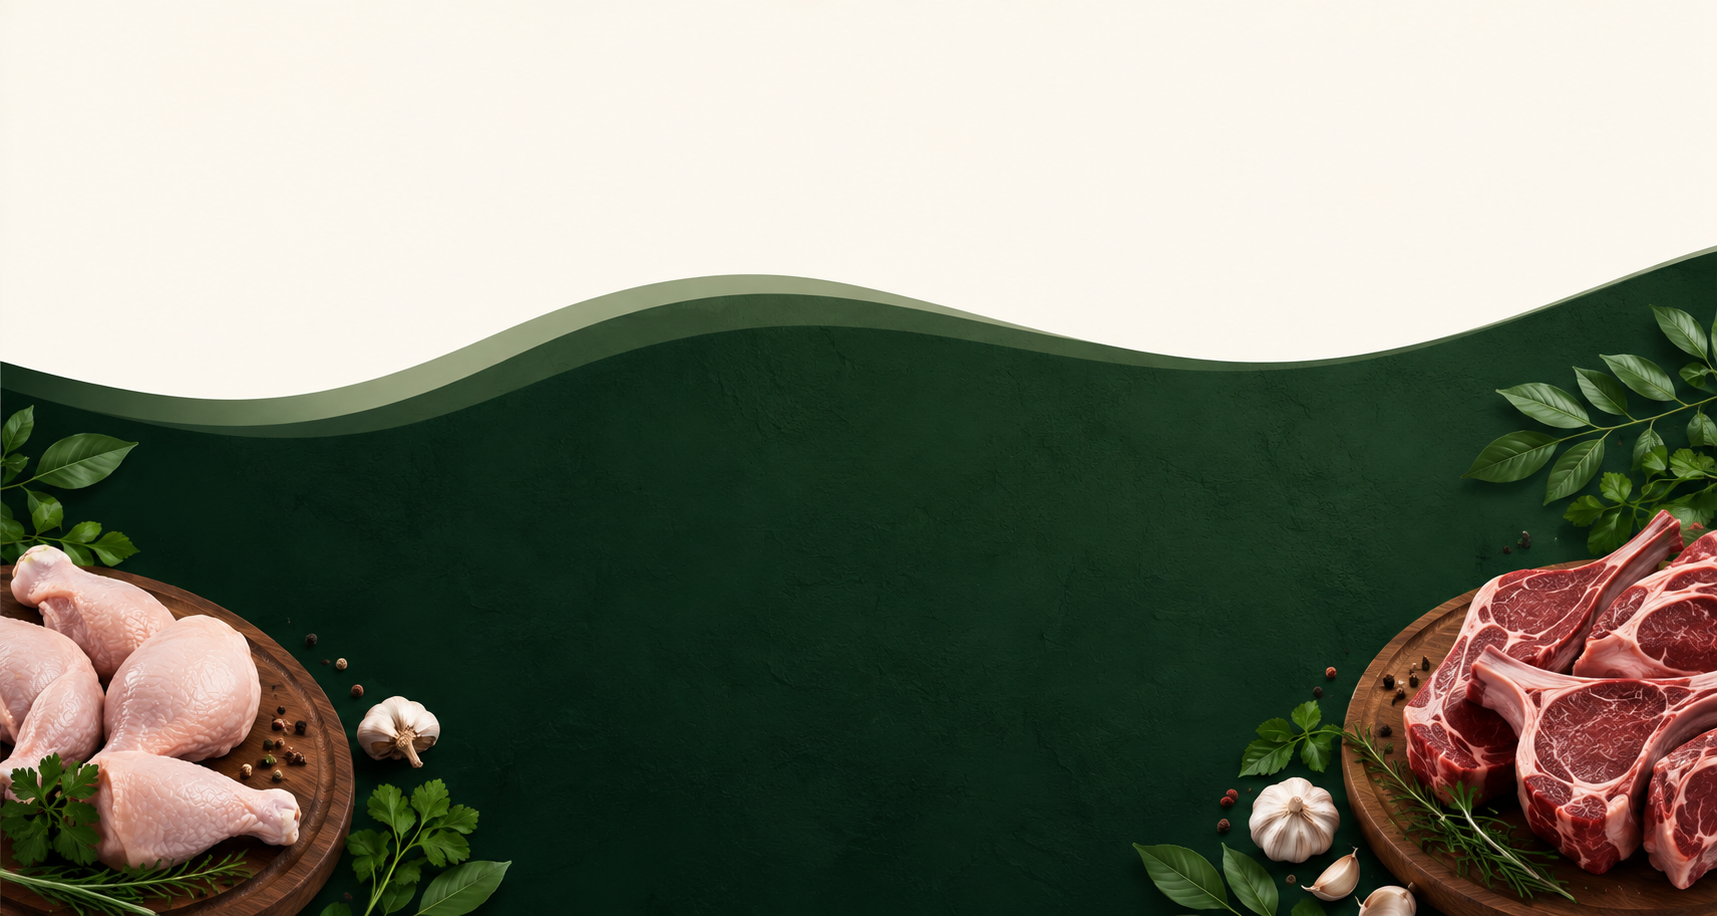
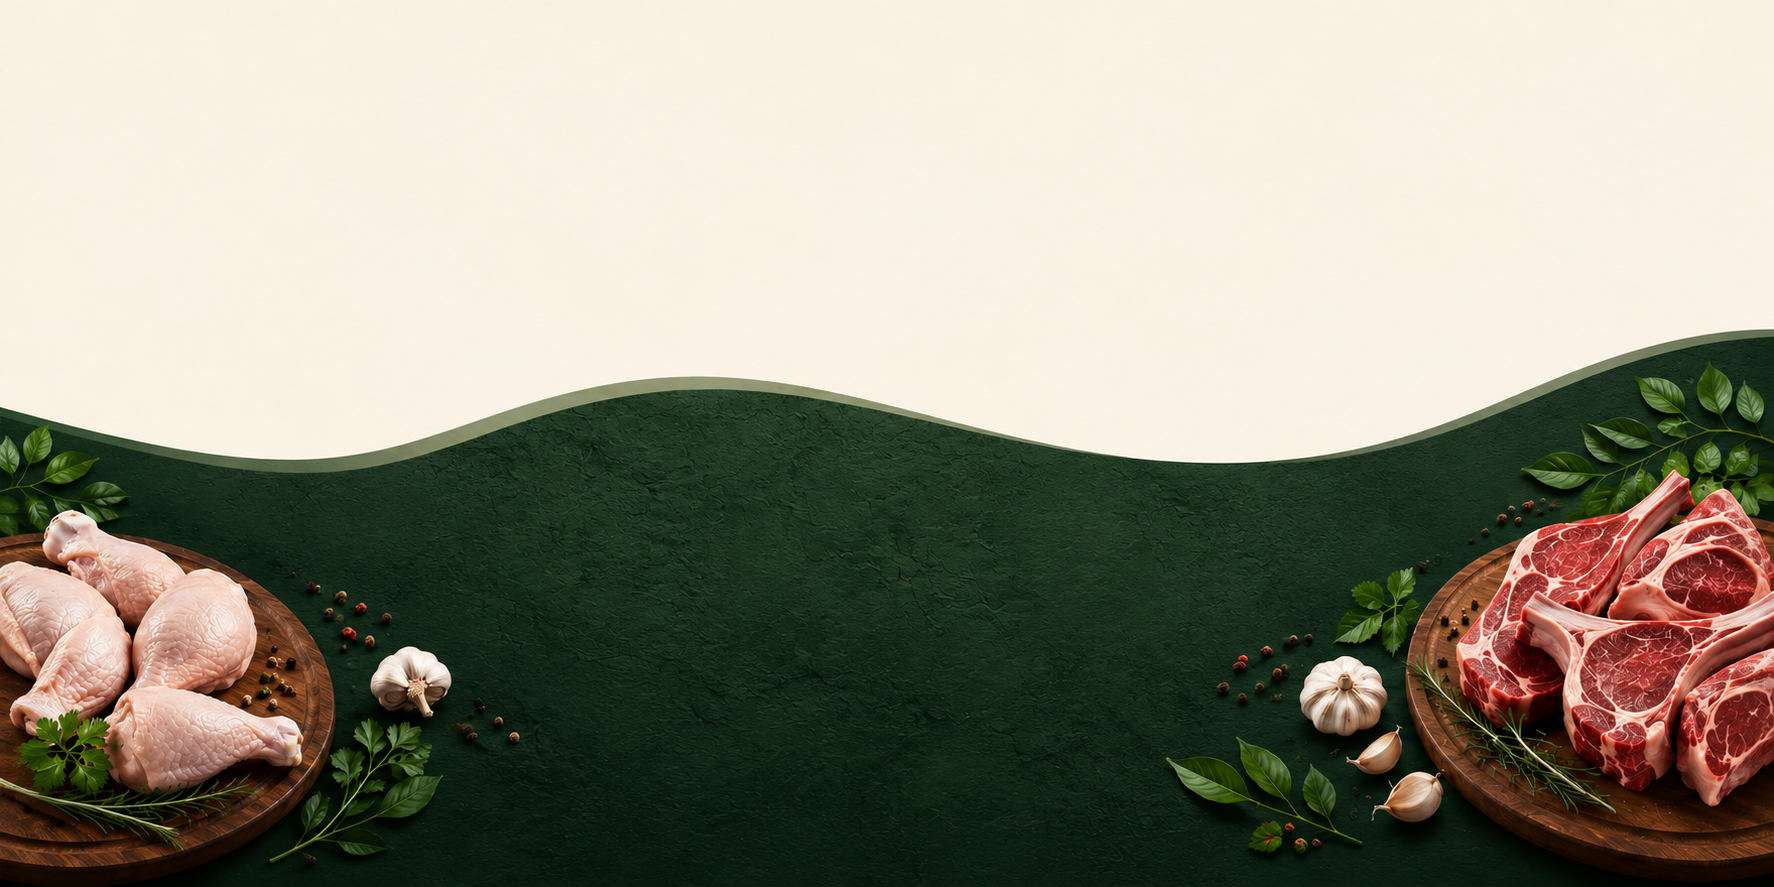
my_3rd change

diff --git a/contactus.html b/contactus.html
@@ -16,7 +16,7 @@
     <div class="container-fluid bg-color py-2 m-0  text-white top-header">
         <div class="row">
         <div class="col-12 col-lg-10 d-none d-lg-flex text-start left-header">
-            <p class="mb-0 pb-0"><i class="fa-solid fa-phone px-2 "></i>+9999999999  </p>
+            <p class="mb-0 pb-0"><i class="fa-solid fa-phone px-2 "></i>+91 8973144034  </p>
             <p class="px-4 mb-0">|</p>
             <p class="mb-0" > <i class="fa-solid fa-envelope px-2 "></i>gvbroilersinfo@gmail.com </p>
             <p class="px-4 mb-0">|</p>
@@ -24,9 +24,11 @@
         </div>
 
         <div class="col-12 col-lg-2 text-center text-lg-end px-4 right-header">
-            <p class="mb-0"> Follow us :<i class="fa-brands fa-facebook p-1"></i>
-                            <i class="fa-brands fa-instagram p-1"></i>
-                            <i class="fa-brands fa-whatsapp p-1"></i>  </p>
+             <p class="mb-0"> Follow us : 
+           <a href=" https://api.whatsapp.com/send/?phone=918973144034">
+           <i class="fa-brands fa-whatsapp p-1 text-white"></i>  
+            </a>
+             </p>
         </div>
         </div>                                                 
     </div>
@@ -68,7 +70,7 @@
         </div>
 
         <!-- Phone Button -->
-        <a href="tel:+919876543210"
+        <a href="tel:+918973144034"
             class="btn btn-success rounded-pill px-4 d-none d-lg-block">
             <i class="fa-solid fa-phone"></i>
             Get in touch
@@ -105,7 +107,7 @@
             </li>
         </ul>
     <hr>
-    <a href="tel:+919876543210"
+    <a href="tel:+918973144034"
         class="btn btn-success w-100 rounded-pill">
         <i class="fa-solid fa-phone"></i>
         Call Now
@@ -124,16 +126,17 @@
 <div class="container-fluid mt-3">
     <div class="container">
         <div class="row">
-            <div class="col-12 col-lg-6 d-flex justify-content-center">               
-                    <div class="card mb-3 mb-lg-0 mt-4 bg-card text-center pt-4 px-3">
+            <div class="col-12 col-lg-6">               
+                    <div class="card mb-3 mb-lg-0 bg-card w-100 h-100 text-center p-4">
                      <h1> <i class="fa-solid fa-location-dot"></i> </h1>   
                       <h4>GV Broilers</h4>
             <h5>V.Ramamoorthy</h5>
-            <p class="mb-0">phone no:+91 9999999999</p>
+            <p class="mb-0">phone no:+91 8973144034</p>
             <p class="mb-0>Madurai main road</p>
             <p class="mb-0>Jakkampatty,<br>Aundipatty-625512</p>
-
-            <button class="btn btn-success mb-3 "> Get Directions</button>
+<div class="col-12 text-center">
+            <a class="btn btn-success px-4"><i class="fa-solid fa-map-location-dot"></i> Get Directions</a>
+            </div>
             </div>
             </div>
         <div class="col-12 col-lg-6">  
@@ -161,10 +164,11 @@
                   placeholder="Enter your message"></textarea>
     </div>
 
-    <button type="submit" class="btn btn-success">
-        Send Message
-    </button>
-
+    <a href=""
+            class="btn btn-success rounded px-1 px-lg-4   ">
+            <i class="fa-solid fa-paper-plane"></i>
+            Send Message
+            </a>
 </form>
     </div>
 </div>
@@ -178,9 +182,9 @@
                      <img src="image/contact_card1.jpg" alt="">
                      <h4> Call us</h4>
                      <img src="image/contactus_design.jpg" alt="">
-                     <h5 class="p-0 m-0">999999999</h5>
-                     <h5>9898989898</h5>
-                     <a href="tel:+919876543210"
+                     <h5 class="p-0 m-0">8973144034</h5>
+                     <h5>9965292424</h5>
+                     <a href="tel:+918973144034"
             class="btn btn-success rounded-pill px-1 px-lg-4   ">
             <i class="fa-solid fa-phone"></i>
             Call Us
@@ -192,7 +196,7 @@
                      <img src="image/contactus_design.jpg" alt="">
                      <p class="mb-0">Have on order or enquiry?</p>
                      <p class="">Message us on whatsapp.</p>
-                     <a href="tel:+919876543210"
+                     <a href="https://api.whatsapp.com/send/?phone=918973144034"
             class="btn btn-success rounded-pill px-1 px-lg-4  ">
             <i class="fa-brands fa-whatsapp"></i>
             Chat on Whatsapp
@@ -217,8 +221,8 @@
     </div>
 </section>
 
-<div class="container-fluid bg-footerimg  py-4 px-0">
-    <div class="container text-center py-4">
+<div class="container-fluid bg-footerimg  py-5 px-0">
+    <div class="container text-center py-5">
         <h5 class="fst-italic text-white">Fresh meat.Clean meat.Safe meat.</h5>
         <h3 class="text-light fw-bold playfair-display">Thank you for supporting !</h3>
     </div>

diff --git a/products.html b/products.html
@@ -14,7 +14,7 @@
     <div class="container-fluid py-2 m-0 bg-color text-white top-header">
         <div class="row">
         <div class="col-12 col-lg-10 d-none d-lg-flex text-start left-header">
-            <p class="mb-0 pb-0"><i class="fa-solid fa-phone px-2 "></i>+9999999999  </p>
+            <p class="mb-0 pb-0"><i class="fa-solid fa-phone px-2 "></i>+91 8973144034 </p>
             <p class="px-4 mb-0">|</p>
             <p class="mb-0" > <i class="fa-solid fa-envelope px-2 "></i>gvbroilersinfo@gmail.com </p>
             <p class="px-4 mb-0">|</p>
@@ -22,9 +22,11 @@
         </div>
 
         <div class="col-12 col-lg-2 text-center text-lg-end px-4 right-header">
-            <p class="mb-0"> Follow us :<i class="fa-brands fa-facebook p-1"></i>
-                            <i class="fa-brands fa-instagram p-1"></i>
-                            <i class="fa-brands fa-whatsapp p-1"></i>  </p>
+            <p class="mb-0"> Follow us : 
+           <a href=" https://api.whatsapp.com/send/?phone=918973144034">
+           <i class="fa-brands fa-whatsapp p-1 text-white"></i>  
+            </a>
+             </p>
         </div>
         </div>                                                 
     </div>
@@ -66,7 +68,7 @@
         </div>
 
         <!-- Phone Button -->
-        <a href="tel:+919876543210"
+        <a href="tel:+918973144034"
             class="btn btn-success rounded-pill px-4 d-none d-lg-block">
             <i class="fa-solid fa-phone"></i>
             Get in touch
@@ -103,7 +105,7 @@
             </li>
         </ul>
     <hr>
-    <a href="tel:+919876543210"
+    <a href="tel:+918973144034"
         class="btn btn-success w-100 rounded-pill">
         <i class="fa-solid fa-phone"></i>
         Call Now
@@ -259,17 +261,17 @@
 
 
 
-<div class="container-fluid bg-footerimg  py-4">
-    <div class="container text-center  py-4">
+<div class="container-fluid bg-footerimg py-5 ">
+    <div class="container text-center  py-5">
         <h5 class="fst-italic text-white playfair">Fresh meat. Healthy life</h5>
         <h4 class="text-success playfair-display">Order now for fresh chicken and mutton</h4>
         <div class="d-lg-flex justify-content-center gap-5 ">
-            <a href="tel:+919876543210"
+            <a href="tel:+918973144034"
             class="btn btn-success rounded-pill px-4  ">
             <i class="fa-solid fa-phone"></i>
             Call Us
             </a>
-            <a href="tel:+919876543210"
+            <a href=" https://api.whatsapp.com/send/?phone=918973144034"
             class="btn btn-success rounded-pill px-4 py-2">
             <i class="fa-brands fa-whatsapp"></i>
             Whatsapp Us

diff --git a/aboutus.html b/aboutus.html
@@ -14,7 +14,7 @@
     <div class="container-fluid bg-color py-2 m-0 text-white top-header">
         <div class="row">
         <div class="col-12 col-lg-10 d-none d-lg-flex text-start left-header">
-            <p class="mb-0 pb-0"><i class="fa-solid fa-phone px-2 "></i>+9999999999  </p>
+            <p class="mb-0 pb-0"><i class="fa-solid fa-phone px-2 "></i>+91 8973144034</p>
             <p class="px-4 mb-0">|</p>
             <p class="mb-0" > <i class="fa-solid fa-envelope px-2 "></i>gvbroilersinfo@gmail.com </p>
             <p class="px-4 mb-0">|</p>
@@ -22,9 +22,11 @@
         </div>
 
         <div class="col-12 col-lg-2 text-center text-lg-end px-4 right-header">
-            <p class="mb-0"> Follow us :<i class="fa-brands fa-facebook p-1"></i>
-                            <i class="fa-brands fa-instagram p-1"></i>
-                            <i class="fa-brands fa-whatsapp p-1"></i>  </p>
+             <p class="mb-0"> Follow us : 
+           <a href=" https://api.whatsapp.com/send/?phone=918973144034">
+           <i class="fa-brands fa-whatsapp p-1 text-white"></i>  
+            </a>
+             </p>
         </div>
         </div>                                                 
     </div>
@@ -66,7 +68,7 @@
         </div>
 
         <!-- Phone Button -->
-        <a href="tel:+919876543210"
+        <a href="tel:+918973144034"
             class="btn btn-success rounded-pill px-4 d-none d-lg-block">
             <i class="fa-solid fa-phone"></i>
             Get in touch
@@ -103,7 +105,7 @@
             </li>
         </ul>
     <hr>
-    <a href="tel:+919876543210"
+    <a href="tel:+918973144034"
         class="btn btn-success w-100 rounded-pill">
         <i class="fa-solid fa-phone"></i>
         Call Now
@@ -115,7 +117,7 @@
 
 <section>
     <div class="container-fluid p-0">
-    <img src="image/aboutus_banner.jpg" alt="" width="100%">
+    <img src="image/aboutus_banner1.jpg" alt="" width="100%">
     </div>
 </section>
 
@@ -217,8 +219,8 @@
 </section>
 
 <section>
-<div class="container-fluid bg-footerimg  py-4 px-0">
-    <div class="container text-center py-4">
+<div class="container-fluid bg-footerimg  py-5 px-0">
+    <div class="container text-center py-5">
         <h5 class="fst-italic text-white playfair">Freshness is our promise.</h5>
         <h4 class="text-light fw-bold playfair-display">Quality is our tradition.</h4>
     </div>

diff --git a/home.html b/home.html
@@ -35,18 +35,20 @@
 <div class="container-fluid bg-color py-2 m-0 text-white top-header">
     <div class="row">
         <div class="col-12 col-lg-10 d-none d-lg-flex text-start left-header">
-            <p class="mb-0 pb-0"><i class="fa-solid fa-phone px-2 "></i>+8973144034  </p>
+            <p class="mb-0 pb-0"><i class="fa-solid fa-phone px-2 "></i>+91 8973144034  </p>
             <p class="px-4 mb-0">|</p>
             <p class="mb-0" > <i class="fa-solid fa-envelope px-2 "></i>gvbroilersinfo@gmail.com </p>
             <p class="px-4 mb-0">|</p>
-            <p class="mb-0 playfair"><i class="fa-solid fa-location-dot px-2 "></i>Madurai main road,jakkampatty-625512 </p>
+            <p class="mb-0"><i class="fa-solid fa-location-dot px-2 "></i>Madurai main road,jakkampatty-625512 </p>
        
         </div>
         
         <div class="col-12 col-lg-2 text-center text-lg-end px-4 right-header">
-            <p class="mb-0"> Follow us :<i class="fa-brands fa-facebook p-1"></i>
-                          <i class="fa-brands fa-instagram p-1"></i>
-                          <i class="fa-brands fa-whatsapp p-1"></i>  </p>
+            <p class="mb-0"> Follow us : 
+           <a href=" https://api.whatsapp.com/send/?phone=918973144034">
+           <i class="fa-brands fa-whatsapp p-1 text-white"></i>  
+            </a>
+             </p>
         </div>
  </div>                                                 
     </div>
@@ -92,7 +94,7 @@
         </div>
 
         <!-- Phone Button -->
-        <a href="tel:+919876543210"
+        <a href="tel:+918973144034"
             class="btn btn-success rounded-pill px-4 d-none d-lg-block">
             <i class="fa-solid fa-phone"></i>
             Get in touch
@@ -138,7 +140,7 @@
 
         <hr>
 
-        <a href="tel:+919876543210"
+        <a href="tel:+918973144034"
             class="btn btn-success w-100 rounded-pill">
             <i class="fa-solid fa-phone"></i>
             Call Now

diff --git a/css/style.css b/css/style.css
@@ -68,7 +68,7 @@ color: rgb(17, 79, 38) ;
     background-image: url("../image/products_footer.png");
     background-repeat: no-repeat;
     background: size: auto;
-    background-position:center;
+    background-position:center bottom;
 
 }
 .mutton-text{
